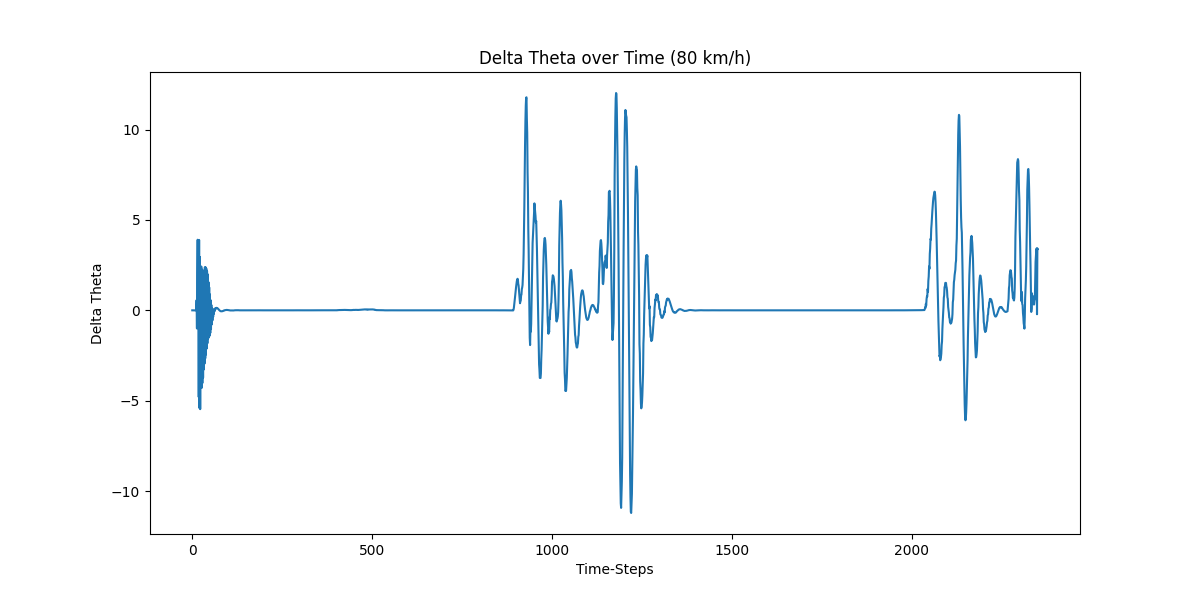
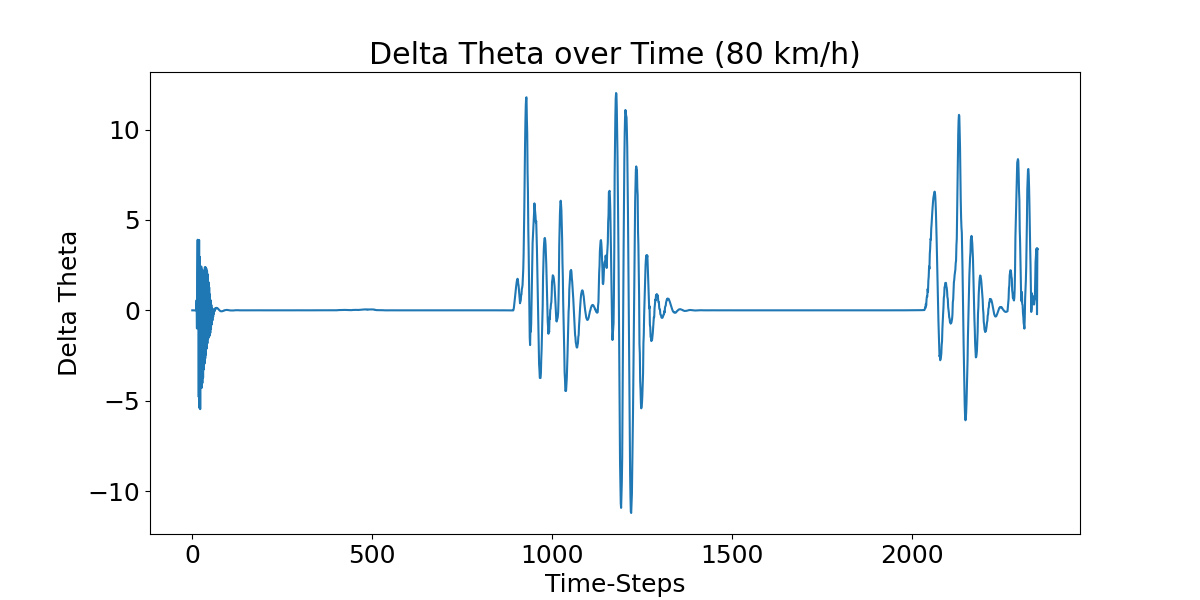
large font on graphs

diff --git a/run/2024_03_21_25rl.py b/run/2024_03_21_25rl.py
@@ -203,7 +203,10 @@ def main():
         listLocations = []
         # Plot setup for delta Y
         # fig_deltaY, ax1 = plt.subplots(figsize=(12, 6))
+        # plt.rcParams.update({'font.size': 36})
+        plt.rcParams.update({'font.size': 18})
         fig_distancePredToPath, ax0 = plt.subplots(figsize=(12,6))
+        ax0.autoscale_view('tight')
         ax0.set_xlabel('Time-Steps')
         ax0.set_ylabel('Distance from Predicted Location to Path')
         ax0.set_title(f'Distance of Deviation From Path ({TARGET_SPEED} km/h)')

diff --git a/run/2024_04_04_26_parent_rl.py b/run/2024_04_04_26_parent_rl.py
@@ -4,7 +4,7 @@ town.wait()
 
 # for speed in [80, 200, 210]:
 # for speed in range(30,201,10):
-for speed in range(90,201,10):
+for speed in range(80,29,-10):
     print('--------------------------------------------------')    
     print(f'started run for target speed {speed} km/h')
     driveConstantSpeed = subprocess.Popen(['python', 'run/2024_03_21_25rl.py', '--speed', str(speed)])
